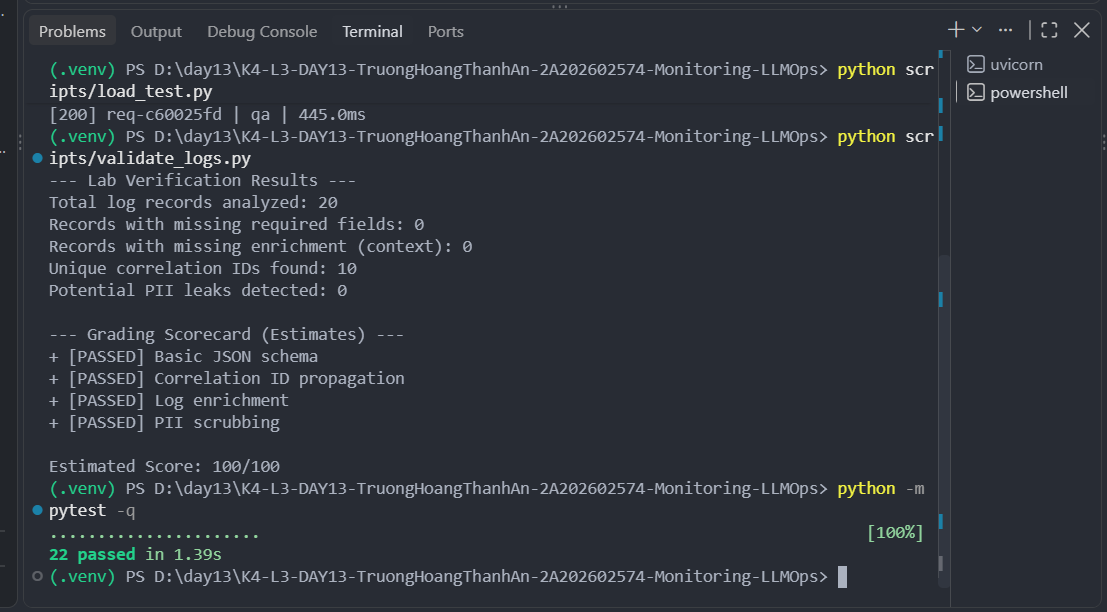
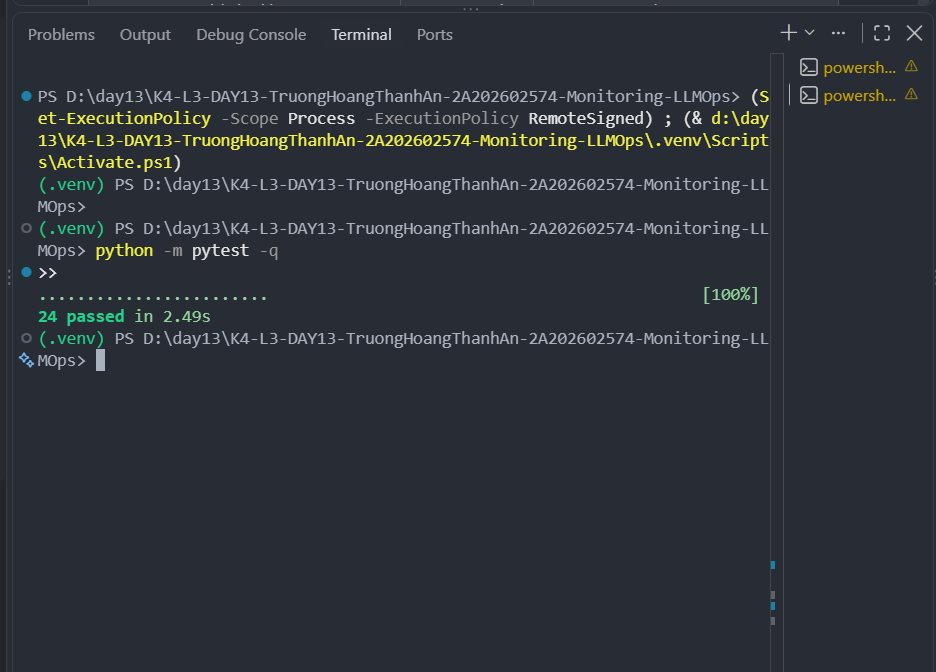
test: add PII coverage for CCCD, credit card and passport patterns

diff --git a/tests/test_pii.py b/tests/test_pii.py
@@ -20,3 +20,17 @@ def test_scrub_common_vietnamese_phone_formats() -> None:
         out = scrub_text(f"Contact: {phone_number}")
         assert phone_number not in out
         assert "REDACTED_PHONE_VN" in out
+
+
+def test_scrub_cccd_and_credit_card() -> None:
+    out = scrub_text("CCCD: 012345678901, the: 1234 5678 9012 3456")
+    assert "012345678901" not in out
+    assert "1234 5678 9012 3456" not in out
+    assert "REDACTED_CCCD" in out
+    assert "REDACTED_CREDIT_CARD" in out
+
+
+def test_scrub_passport() -> None:
+    out = scrub_text("Passport number: B1234567")
+    assert "B1234567" not in out
+    assert "REDACTED_PASSPORT" in out

diff --git a/submission/REPORT.md b/submission/REPORT.md
@@ -39,7 +39,7 @@
 | ------------------------- | ------------------------------------------------------------------------------------------------------------------------------- | -------------------------------------------------------------------------------------------------------------------------- | --------------------------------------------------------------------------------------------------------------------------------------------------------- |
 | `validate_logs.py`      | 30/100 (Total 22, missing required fields 20, missing enrichment 20, unique correlation IDs 0)                                  | 100/100 (Total 68, missing required fields 0, missing enrichment 0, unique correlation IDs 31, PII leak 0)                 | Sau CP1: correlation ID + enrichment (`user_id_hash`, `session_id`, `feature`, `model`, `env`) đã bind đủ; PII scrubbing tiếp tục PASSED. |
 | `validate_dashboard.py` | HỢP LỆ: 6/6 panel                                                                                                             | HỢP LỆ: 6/6 panel                                                                                                        | Contract dashboard đủ 6 panel từ baseline; đã bổ sung dashboard runtime (`scripts/render_dashboard.py`) để chứng minh dữ liệu thật.         |
-| `pytest`                | 22 passed                                                                                                                       | 22 passed                                                                                                                  | Toàn bộ test vẫn pass sau khi hoàn thiện CP1 + CP2.                                                                                                  |
+| `pytest`                | 22 passed                                                                                                                       | 24 passed                                                                                                                  | Bổ sung 2 test (`test_scrub_cccd_and_credit_card`, `test_scrub_passport`) vào `tests/test_pii.py` để phủ đủ pattern CCCD/thẻ/passport mới thêm ở CP1.                                                                                                  |
 | Số traces hợp lệ       | 0 (chưa tạo child observation retrieval/generation)                                                                           | ≥30 root trace (`lab-agent-run`) có đủ child `retrieval`+`generation` trong project `day13-k4-l3b-2A202602574` | Đạt yêu cầu ≥10 trace tự tạo.                                                                                                                      |
 | Số PII leak              | 0 (validator báo PASSED PII scrubbing)                                                                                         | 0                                                                                                                          | Không phát hiện PII nguyên văn sau redaction.                                                                                                        |
 | Latency P95 / TTFT P95    | Chưa đo (load_test.py baseline chỉ log latency từng request, ví dụ 8753.5ms/442.9ms/...; chưa có panel latency runtime) | P95 = 1024.8 ms / TTFT P95 = 50.0 ms (dashboard runtime, cửa sổ 60 phút, 80 request)                                    | Đạt ngưỡng P95 ≤ 3000ms.                                                                                                                             |
